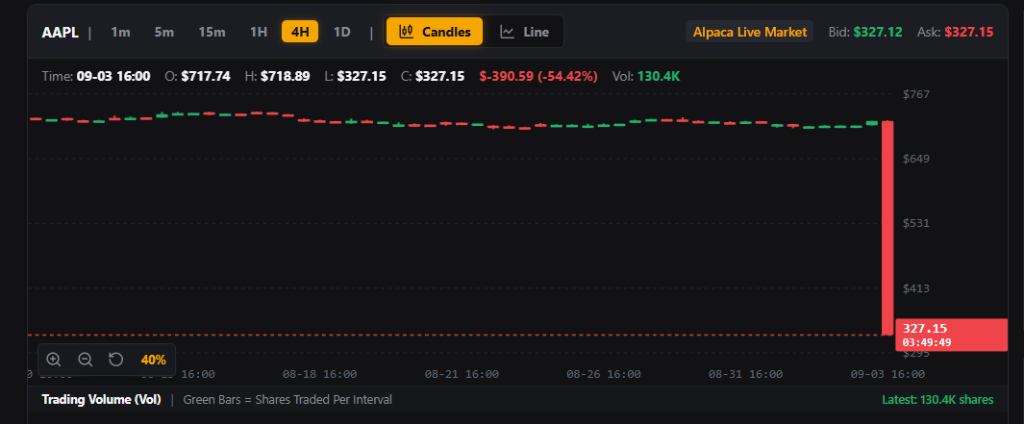
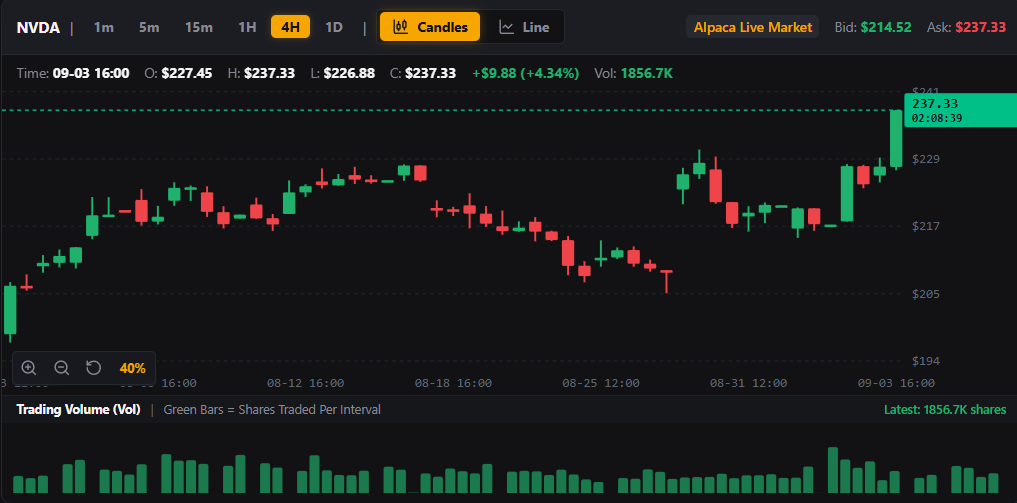
fix(core): add exit_price to TradeRecord and update terminal dashboard asset
- Add optional exit_price field to TradeRecord model for Position Guardian TP/SL routines
- Update executive terminal dashboard image in docs/assets and frontend/public
- Add headless dashboard screenshot capture scripts

diff --git a/scripts/capture_real_screenshot.py b/scripts/capture_real_screenshot.py
@@ -1,0 +1,79 @@
+import subprocess
+import asyncio
+import json
+import urllib.request
+import base64
+import os
+import shutil
+import time
+
+CHROME_PATH = r'C:\Program Files\Google\Chrome\Application\chrome.exe'
+PORT = 9222
+TARGET_PNG = r'd:\Projects\VolHelix-AI\docs\assets\dashboard.png'
+PUBLIC_PNG = r'd:\Projects\VolHelix-AI\frontend\public\dashboard.png'
+
+async def capture():
+    # 1. Launch Chrome with remote debugging
+    user_data = os.path.join(os.path.expanduser("~"), "AppData", "Local", "Temp", "chrome_snap_profile")
+    os.makedirs(user_data, exist_ok=True)
+    cmd = [
+        CHROME_PATH,
+        '--headless=new',
+        '--disable-gpu',
+        f'--user-data-dir={user_data}',
+        f'--remote-debugging-port={PORT}',
+        '--window-size=1920,1080',
+        '--hide-scrollbars',
+        'http://localhost:3000/'
+    ]
+    proc = subprocess.Popen(cmd)
+    try:
+        # 2. Wait for Chrome DevTools endpoint to become available
+        ws_url = None
+        for _ in range(20):
+            await asyncio.sleep(0.5)
+            try:
+                with urllib.request.urlopen(f'http://localhost:{PORT}/json') as resp:
+                    tabs = json.loads(resp.read().decode())
+                    if tabs and 'webSocketDebuggerUrl' in tabs[0]:
+                        ws_url = tabs[0]['webSocketDebuggerUrl']
+                        break
+            except Exception:
+                pass
+
+        if not ws_url:
+            raise RuntimeError("Could not connect to Chrome DevTools endpoint")
+
+        print(f"Connected to DevTools: {ws_url}")
+        import websockets
+        async with websockets.connect(ws_url) as ws:
+            # Wait 5 seconds for React components and candlestick chart to fully load
+            print("Waiting for chart & market data to render...")
+            await asyncio.sleep(5.0)
+
+            # Request screenshot
+            req = {
+                "id": 1,
+                "method": "Page.captureScreenshot",
+                "params": {"format": "png", "captureBeyondViewport": False}
+            }
+            await ws.send(json.dumps(req))
+            res = await ws.recv()
+            data = json.loads(res)
+            
+            img_b64 = data["result"]["data"]
+            img_bytes = base64.b64decode(img_b64)
+            
+            with open(TARGET_PNG, "wb") as f:
+                f.write(img_bytes)
+            print(f"Successfully captured screenshot: {len(img_bytes)} bytes written to {TARGET_PNG}")
+            
+            shutil.copyfile(TARGET_PNG, PUBLIC_PNG)
+            print(f"Copied to {PUBLIC_PNG}")
+
+    finally:
+        proc.terminate()
+        proc.wait()
+
+if __name__ == '__main__':
+    asyncio.run(capture())

diff --git a/scripts/capture_screenshot.py b/scripts/capture_screenshot.py
@@ -1,0 +1,35 @@
+import subprocess
+import os
+import shutil
+
+chrome_path = r'C:\Program Files\Google\Chrome\Application\chrome.exe'
+if not os.path.exists(chrome_path):
+    chrome_path = r'C:\Program Files (x86)\Microsoft\Edge\Application\msedge.exe'
+
+target_png = r'd:\Projects\VolHelix-AI\docs\assets\dashboard.png'
+public_png = r'd:\Projects\VolHelix-AI\frontend\public\dashboard.png'
+
+cmd = [
+    chrome_path,
+    '--headless=new',
+    '--disable-gpu',
+    '--window-size=1920,1080',
+    '--virtual-time-budget=7000',
+    f'--screenshot={target_png}',
+    'http://localhost:3000/'
+]
+
+print("Capturing dashboard screenshot with command:", cmd)
+res = subprocess.run(cmd, capture_output=True, text=True, timeout=30)
+print("Return code:", res.returncode)
+if res.stdout:
+    print("Stdout:", res.stdout)
+if res.stderr:
+    print("Stderr:", res.stderr)
+
+if os.path.exists(target_png) and os.path.getsize(target_png) > 1000:
+    print(f"Screenshot captured successfully! Size: {os.path.getsize(target_png)} bytes")
+    shutil.copyfile(target_png, public_png)
+    print("Copied to frontend/public/dashboard.png as well.")
+else:
+    print("Screenshot file was not created or is empty.")

diff --git a/backend/models/trade.py b/backend/models/trade.py
@@ -40,4 +40,5 @@ class TradeRecord(BaseModel):
     realized_pnl: float = 0.0
     take_profit_price: Optional[float] = None
     stop_loss_price: Optional[float] = None
+    exit_price: Optional[float] = None
     mcp_logs: List[MCPCallLog] = Field(default_factory=list)
